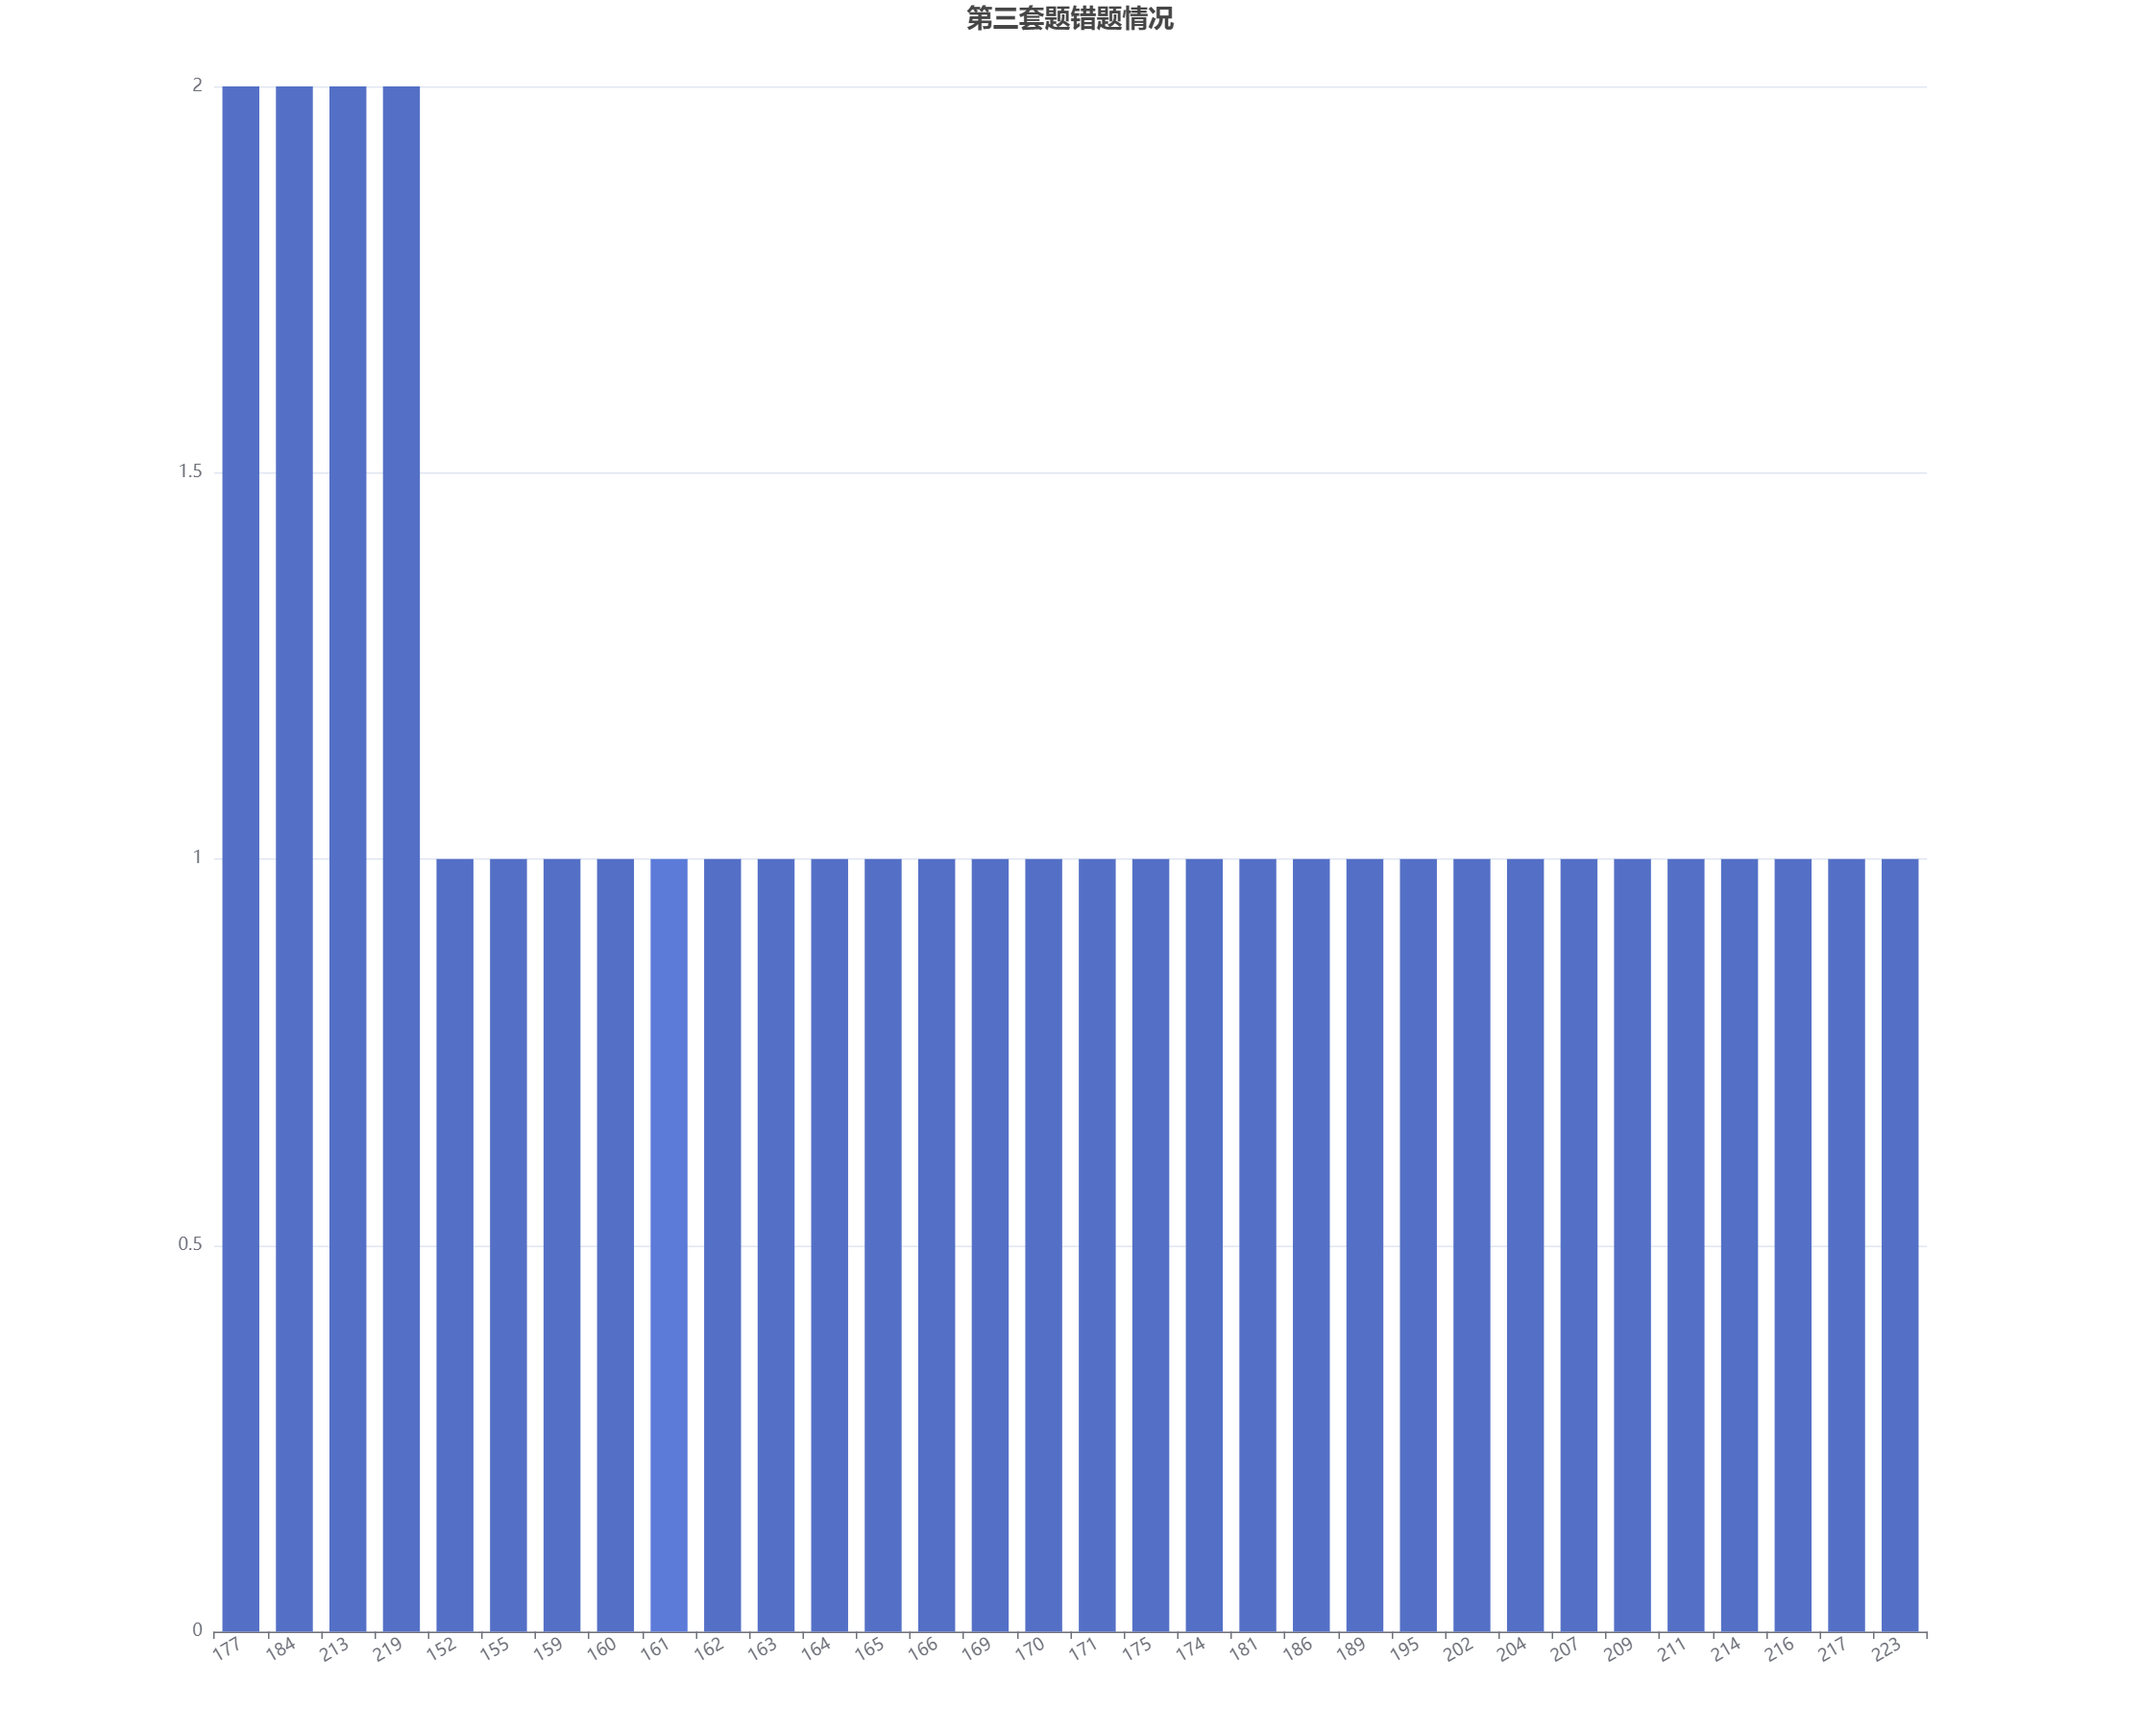
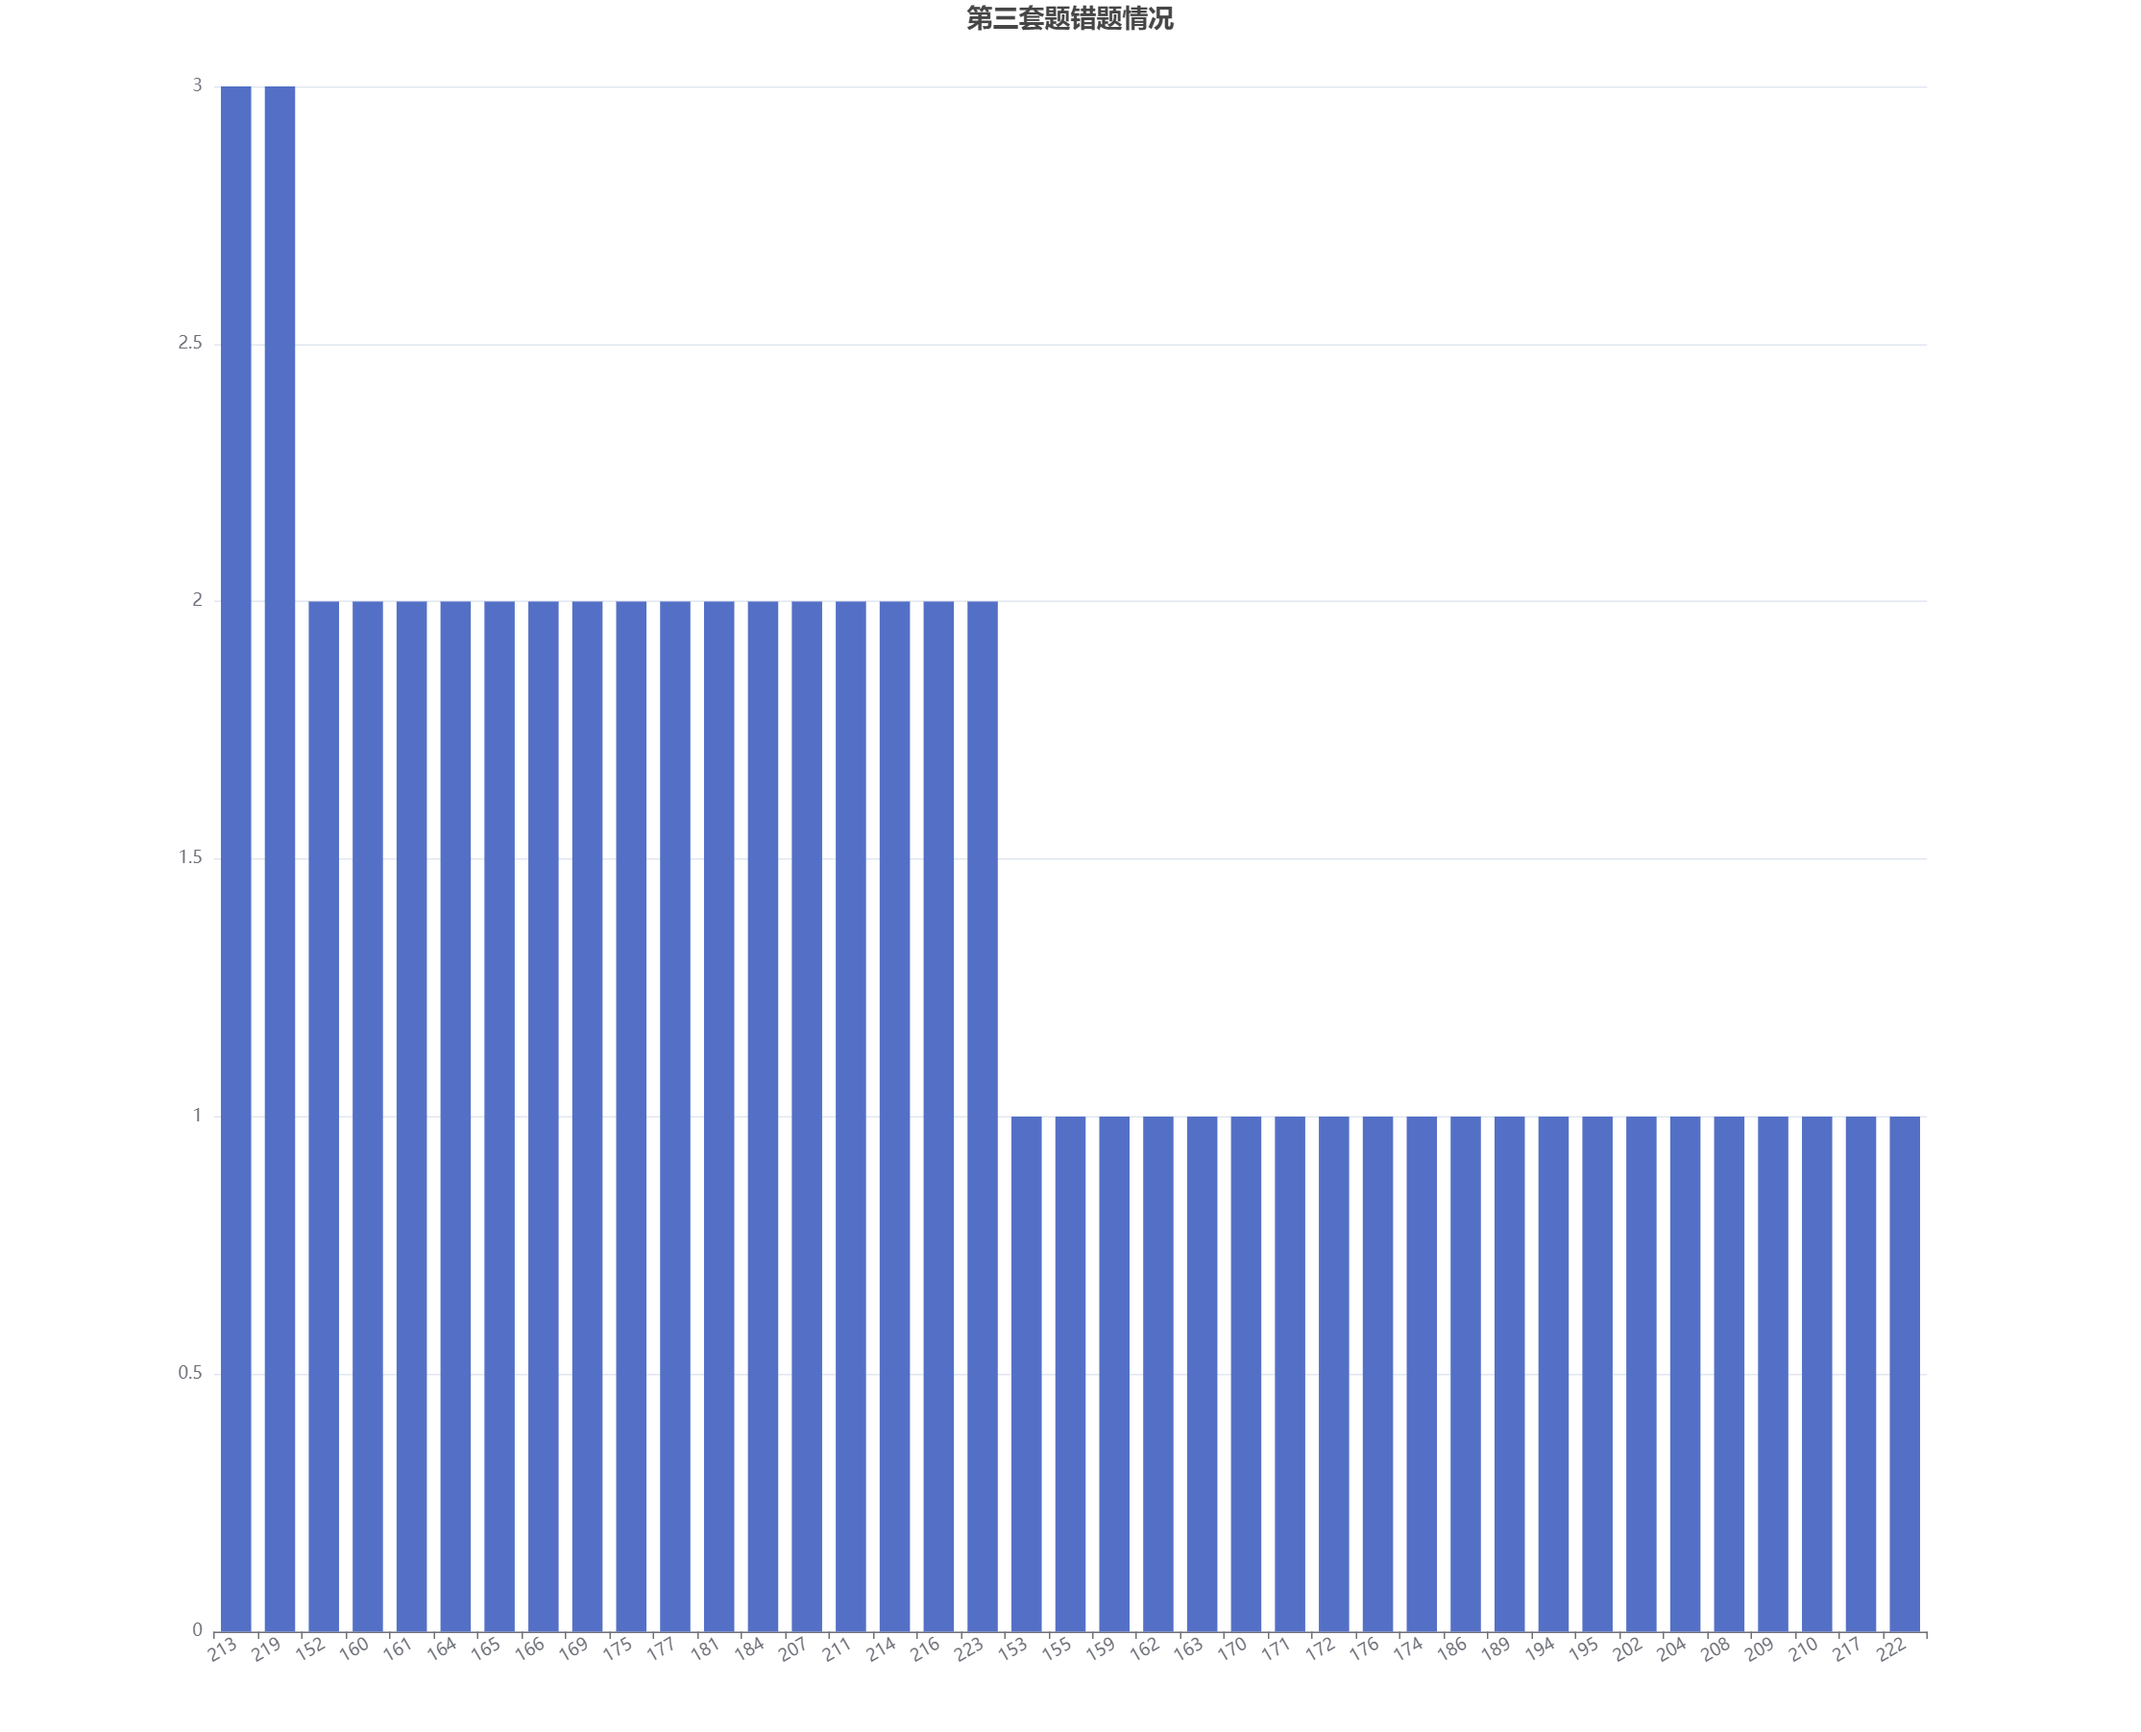
[update]up daily test result

Changed region(s): [[0.0929, 0.031, 0.8977, 0.9623]]

diff --git a/src/testReview.js b/src/testReview.js
@@ -116,38 +116,45 @@ option = {
     {
       dimensions: ["number", "frequent"],
       source: [
-        ["152", 1],
+        ["152", 2],
+        ["153", 1],
         ["155", 1],
         ["159", 1],
-        ["160", 1],
-        ["161", 1],
+        ["160", 2],
+        ["161", 2],
         ["162", 1],
         ["163", 1],
-        ["164", 1],
-        ["165", 1],
-        ["166", 1],
-        ["169", 1],
+        ["164", 2],
+        ["165", 2],
+        ["166", 2],
+        ["169", 2],
         ["170", 1],
         ["171", 1],
-        ["175", 1],
+        ["172", 1],
+        ["175", 2],
+        ["176", 1],
         ["174", 1],
         ["177", 2],
-        ["181", 1],
+        ["181", 2],
         ["184", 2],
         ["186", 1],
         ["189", 1],
+        ["194", 1],
         ["195", 1],
         ["202", 1],
         ["204", 1],
-        ["207", 1],
+        ["207", 2],
+        ["208", 1],
         ["209", 1],
-        ["211", 1],
-        ["213", 2],
-        ["214", 1],
-        ["216", 1],
+        ["210", 1],
+        ["211", 2],
+        ["213", 3],
+        ["214", 2],
+        ["216", 2],
         ["217", 1],
-        ["219", 2],
-        ["223", 1],
+        ["219", 3],
+        ["222", 1],
+        ["223", 2],
       ],
     },
     {
